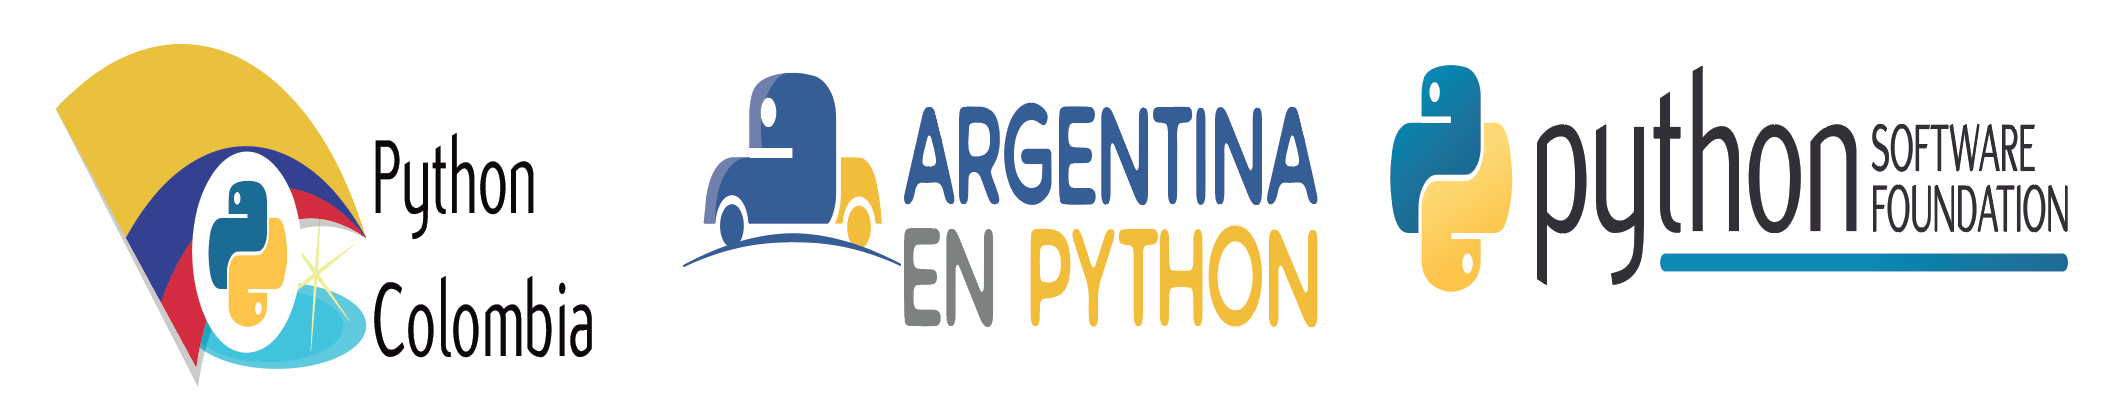
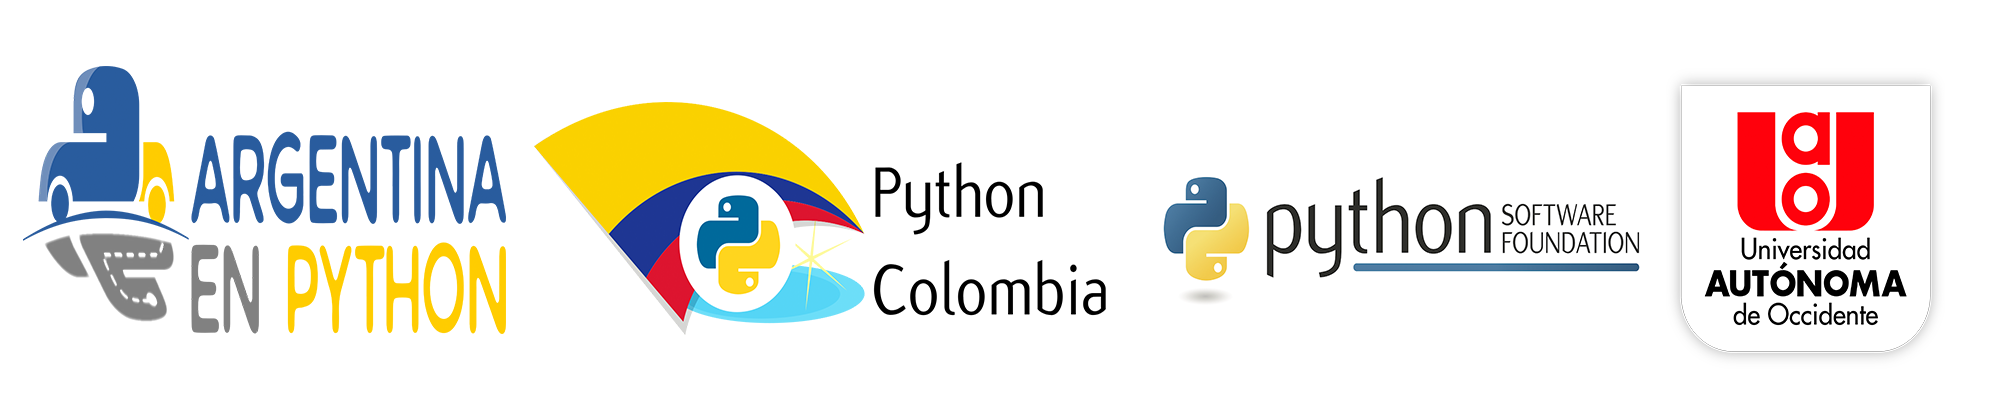
Actualización de sponsors y apoyos

diff --git a/web/stories/django-girls-cali.rst b/web/stories/django-girls-cali.rst
@@ -484,9 +484,8 @@ contigo para coordinar los detalles.
 Sponsors
 ---------------
 
-Estamos en la búsqueda de sponsor para este evento de inclusión social, 
-por favor dejanos saber que estás interesado en apoyarnos como sponsor enviando 
-un email a djangogirlscolombia@gmail.com
+.. image:: sponsors.png
+   :align: center
 
 Con el Apoyo de
 ---------------
